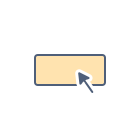
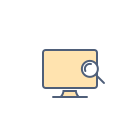
QT-1512 Create Network scan page

Changed region(s): [[0.2286, 0.3429, 0.7714, 0.7143]]

diff --git a/app/styles/common.lists.css b/app/styles/common.lists.css
@@ -4293,6 +4293,161 @@ Devices tab
   font-size: 15px;
 }
 
+.dashboard-network-scan.dashboard-network-scan-list {
+  padding: 0;
+  text-align: left;
+  display: block;
+}
+
+.dashboard-network-scan-list .company-device-name > div {
+  vertical-align: text-top;
+}
+
+.dashboard-network-scan-list .company-device-name {
+  padding: 0;
+}
+
+.dashboard-network-scan-list .company-device-name i {
+  margin: 10px 10px 0 0;
+}
+
+.dashboard-network-scan-list .company-devices .checkbox {
+  margin: 10px 10px 0 0 !important;
+}
+
+.dashboard-network-scan-list .users-list-wrapper {
+  padding-top: 5px;
+}
+
+.dashboard-network-scan-list .users-list-wrapper .col-md-3 .company-device-name div p {
+  font-family: "Graphik Medium", sans-serif;
+}
+
+.dashboard-network-scan-list .users-list-wrapper .col-md-2,
+.dashboard-network-scan-list .users-list-wrapper .col-md-1 {
+  padding-top: 5px;
+}
+
+.network-scan-status {
+  padding: 1px 5px;
+  font-size: 11px;
+  border-radius: 3px;
+  font-family: "Graphik Medium", sans-serif;
+}
+
+.status-success {
+  background-color: #D5F4E0;
+  color: #2EC866;
+}
+
+.status-warning {
+  background-color: #FFF0D5;
+  color: #ffb937;
+}
+
+.status-danger {
+  background-color: #FFD8D5;
+  color: #FF3E2B;
+}
+
+.dashboard-network-scan-list h3 {
+  margin: 0 25px 15px;
+  padding-top: 10px;
+}
+
+.dashboard-network-scan-header {
+  margin: 0 25px;
+  border-radius: 3px;
+  background-color: #fff;
+  display: flex;
+  justify-content: center;
+  align-items: center;
+}
+
+.dashboard-network-scan-header .header-item {
+  padding: 15px 30px;
+  border-right: 1px solid #edf2f6;
+  width: 25%;
+  height: 248px;
+  display: flex;
+  flex-flow: column;
+  justify-content: center;
+}
+
+.dashboard-network-scan-header .header-item:first-child,
+.dashboard-network-scan-header .header-item:last-child {
+  text-align: center;
+}
+
+.dashboard-network-scan-header .header-item:first-child p,
+.dashboard-network-scan-header .header-item:last-child p {
+  font-size: 15px;
+}
+
+.dashboard-network-scan-header .col-md-3:last-child {
+  border: none;
+}
+
+.run-scan-img {
+  height: 49px;
+  width: 61px;
+  background: url("../images/new-icons/network-scan-run-scan-icn.png");
+  margin: 0 auto 20px;
+}
+
+.install-agent-img {
+  height: 58px;
+  width: 56px;
+  background: url("../images/new-icons/network-scan-install-icn.png");
+  margin: 0 auto 20px;
+}
+
+.dashboard-network-scan-header .header-item p {
+  font-size: 13px;
+  font-family: "Graphik Medium", sans-serif;
+  margin-bottom: 10px;
+}
+
+.dashboard-network-scan-header .header-item input {
+  height: 40px;
+  border-radius: 3px;
+  border: solid 1px #c4cbd5;
+  width: 100%;
+  margin-bottom: 15px;
+  padding: 0 10px;
+}
+
+.dashboard-network-scan.dashboard-network-scan-list .dashboard-network-scan-header .btn-success {
+  height: 40px;
+  margin-bottom: 0;
+  font-size: 14px;
+}
+
+.dashboard-network-scan-header .header-item .saved-credentials p {
+  padding: 5px 10px;
+  transition: all .3s;
+  position: relative;
+  border-radius: 3px;
+  margin-bottom: 0;
+  cursor: default;
+  font-family: "Graphik Regular", sans-serif;
+}
+
+.saved-credentials p:hover {
+  background-color: #EDF2F6;
+}
+
+.saved-credentials p:hover:after {
+  position: absolute;
+  content: '';
+  width: 16px;
+  height: 16px;
+  background: url(../images/new-icons/devices-remove.png);
+  cursor: pointer;
+  right: 8px;
+  top: 8px;
+}
+
 .network-scan-actions {
   display: flex;
   justify-content: center;
@@ -4308,28 +4463,28 @@ Devices tab
   height: 40px;
 }
 
-.network-scan-actions .btn-success {
+.dashboard-network-scan .btn-success {
   margin-bottom: 65px;
   position: relative;
   background-color: #2EC866;
   border: solid 1px #189947;
 }
 
-.network-scan-actions .btn-success:hover,
-.network-scan-actions .btn-success:active,
-.network-scan-actions .btn-success:focus{
+.dashboard-network-scan .btn-success:hover,
+.dashboard-network-scan .btn-success:active,
+.dashboard-network-scan .btn-success:focus {
   background-color: #189947;
 }
 
-.network-scan-actions .btn-primary {
+.dashboard-network-scan .btn-primary {
   background-color: #fff;
   color: #16a4fa;
   border: 1px solid #16a4fa;
 }
 
-.network-scan-actions .btn-primary:hover,
-.network-scan-actions .btn-primary:active,
-.network-scan-actions .btn-primary:focus{
+.dashboard-network-scan .btn-primary:hover,
+.dashboard-network-scan .btn-primary:active,
+.dashboard-network-scan .btn-primary:focus {
   background-color: #16a4fa;
   border: 1px solid #16a4fa;
   color: #fff;
@@ -5424,7 +5579,7 @@ Devices tab
 
 .device-name-edit .btn-default:hover,
 .device-name-edit .btn-default:active,
-.device-name-edit .btn-default:focus{
+.device-name-edit .btn-default:focus {
   background-color: #c4cbd5;
   border: 1px solid #c4cbd5;
   color: #4f5f79;
@@ -5540,6 +5695,13 @@ Devices tab
 
 .company-devices .dropdown-menu li:last-child:before {
   background: url(../images/new-icons/devices-remove.png);
+}
+
+.delete-network-scan {
+  width: 16px;
+  height: 16px;
+  background: url(../images/new-icons/devices-remove.png);
+  cursor: pointer;
 }
 
 .dashboard-active-device {

diff --git a/app/scripts/core/companies/company-profile/tabs/network-scan-tab/dashboard-network-scan-tab.tpl.html b/app/scripts/core/companies/company-profile/tabs/network-scan-tab/dashboard-network-scan-tab.tpl.html
@@ -1,25 +1,120 @@
-<div class="dashboard-network-scan">
-  <div class="network-scan-steps">
-    <div>
-      <div class="network-scan-step-img"></div>
-      <div>1. Download</div>
-      <div>Download Agent for Windows</div>
+<!--<div class="dashboard-network-scan">-->
+<!--<div class="network-scan-steps">-->
+<!--<div>-->
+<!--<div class="network-scan-step-img"></div>-->
+<!--<div>1. Download</div>-->
+<!--<div>Download Agent for Windows</div>-->
+<!--</div>-->
+<!--<div>-->
+<!--<div class="network-scan-step-img"></div>-->
+<!--<div>2. Install</div>-->
+<!--<div>Follow the instructions on-->
+<!--your computer</div>-->
+<!--</div>-->
+<!--<div>-->
+<!--<div class="network-scan-step-img"></div>-->
+<!--<div>3. Run Scan</div>-->
+<!--<div>Get Started with run scan-->
+<!--to get result</div>-->
+<!--</div>-->
+<!--</div>-->
+<!--<div class="network-scan-actions">-->
+<!--<button class="btn btn-success">Download Agent Installer for Windows</button>-->
+<!--<button class="btn btn-primary">Copy a installer link to clipboard</button>-->
+<!--</div>-->
+<!--</div>-->
+<div class="dashboard-network-scan dashboard-network-scan-list">
+  <h3>Network Scan</h3>
+  <div class="dashboard-network-scan-header clearfix">
+    <div class="header-item">
+      <div class="run-scan-img"></div>
+      <p>Run Scan</p>
     </div>
-    <div>
-      <div class="network-scan-step-img"></div>
-      <div>2. Install</div>
-      <div>Follow the instructions on
-        your computer</div>
+    <div class="header-item">
+      <p>User Name</p>
+      <input type="text">
+      <p>Password</p>
+      <input type="text">
+      <button class="btn btn-success">Add Credential</button>
     </div>
-    <div>
-      <div class="network-scan-step-img"></div>
-      <div>3. Run Scan</div>
-      <div>Get Started with run scan
-        to get result</div>
+    <div class="header-item">
+      <p>Saved Credentials</p>
+      <div class="saved-credentials">
+        <p>Active Tek</p>
+        <p>Admin Server</p>
+        <p>Office Server</p>
+        <p>HP Server</p>
+      </div>
+    </div>
+    <div class="header-item">
+      <div class="install-agent-img"></div>
+      <p>Install Agent</p>
     </div>
   </div>
-  <div class="network-scan-actions">
-    <button class="btn btn-success">Download Agent Installer for Windows</button>
-    <button class="btn btn-primary">Copy a installer link to clipboard</button>
-  </div>
+  <ul class="users-bg company-devices qt-list">
+    <li class="list-heading">
+      <div class="col-md-3">
+        <label class="control checkbox pull-left">
+          <input type="checkbox">
+          <span class="control-indicator"></span>
+        </label>
+        <span class="sort-span">
+        Device Name
+      </span>
+      </div>
+      <div class="col-md-2">
+        <span>
+          Lan IP
+        </span>
+      </div>
+      <div class="col-md-2">
+        <span>MANUFACTURER</span>
+      </div>
+      <div class="col-md-2">
+        <span>Mac address</span>
+      </div>
+      <div class="col-md-2">
+        <span>Status</span>
+      </div>
+      <div class="col-md-1"></div>
+    </li>
+    <li class="active-device-item">
+      <div class="users-list-wrapper">
+        <div class="col-md-3">
+          <label class="control checkbox">
+            <input type="checkbox">
+            <span class="control-indicator"></span>
+          </label>
+          <div class="company-device-name">
+
+            <i class="devices-monitor"></i>
+            <!--<i class="devices-phone"></i>-->
+            <!--<i class="devices-printer"></i>-->
+            <!--<i class="devices-server"></i>-->
+
+            <div>
+              <p class="ellipsis">BlackHall</p>
+            </div>
+          </div>
+        </div>
+        <div class="col-md-2">
+          192.168.15.120
+        </div>
+        <div class="col-md-2">
+          Asus computer
+        </div>
+        <div class="col-md-2">
+          00155dcc8501
+        </div>
+        <div class="col-md-2">
+          <!--<div class="network-scan-status status-success">Agent installed</div>-->
+          <div class="network-scan-status status-warning">Incorrect Password</div>
+          <!--<div class="network-scan-status status-danger">Blocked</div>-->
+        </div>
+        <div class="col-md-1" style="justify-content: flex-end;">
+          <i class="delete-network-scan"></i>
+        </div>
+      </div>
+    </li>
+  </ul>
 </div>
